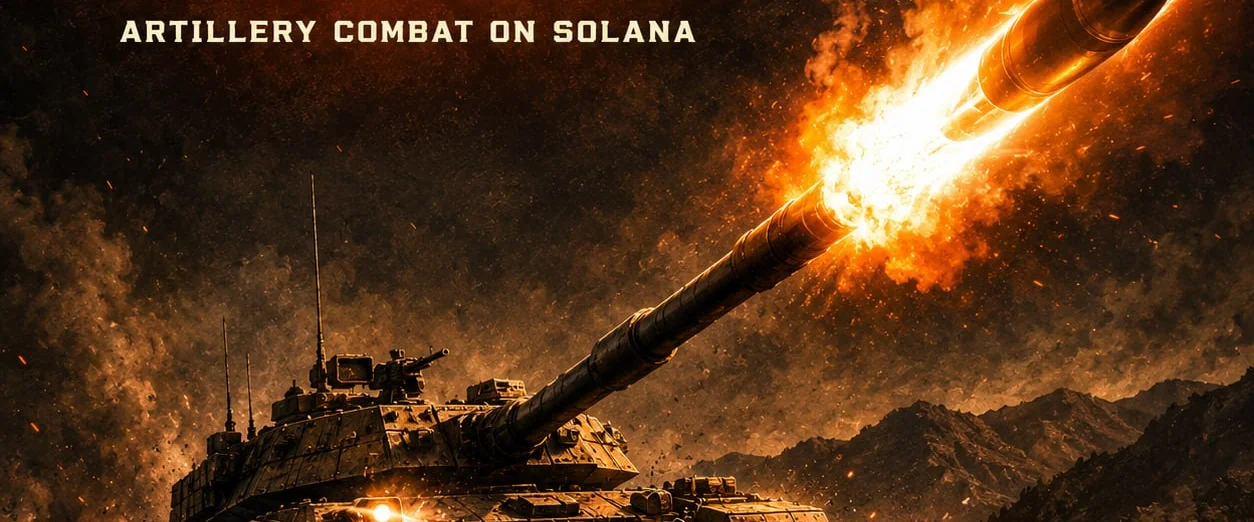
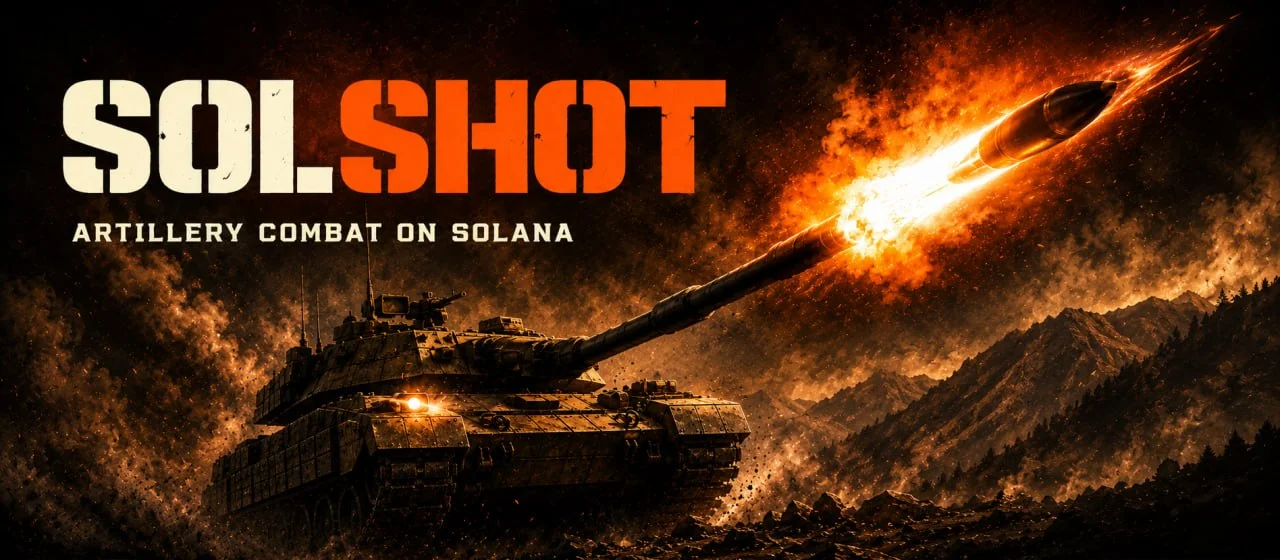
feat(art): wire SolShot 3-asset set (tile + hero + splash) as tester
First game to ship the full three-asset spec per the brief. Fish
shipped sources already cut to the right aspect ratios:

  - Solshot_New.jpg   1280x560 (16:7)  -> solshot.webp        (hero, 115 KB)
  - SolShot_Floor.jpg 1280x800 (16:10) -> solshot-tile.webp   (tile, 147 KB)
  - SolShot_TG.jpg    720x1280 (9:16)  -> solshot-splash.webp (splash, 141 KB)

Total ~400 KB across the 3 — slightly over the 270 KB ideal budget but
acceptable for V1 testing. Squeeze candidates: drop quality 85 to 80
or rescale to native target dimensions.

ArcadeGame interface extended with optional `tileSrc` + `splashSrc`.
Floor grid (TheFloor.tsx) prefers tileSrc when present, falls back
to heroSrc for games still on a single asset (basketball, free-kicks,
keepie-uppies). Featured Cabinet + Game Detail Marquee continue to
use the wide hero. Splash isn't wired into any surface yet — stored
ready for mobile launch / OG share / future trophy card.

diff --git a/src/data/games-fixtures.ts b/src/data/games-fixtures.ts
@@ -17,8 +17,16 @@ export interface ArcadeGame {
   stake: string;
   yield: number;
   hi: string;
-  /** Hero illustration (studio-provided art). Vite serves from /public. */
+  /** Wide hero illustration (16:7, ~2400×1050 target). Featured Cabinet
+   *  + Game Detail Marquee. Always required. */
   heroSrc: string;
+  /** Tile crop (16:10, ~1280×800 target). The Floor grid tiles. Falls
+   *  back to `heroSrc` with `object-fit: cover` when missing. */
+  tileSrc?: string;
+  /** Vertical splash (9:16, ~1080×1920 target). Mobile launch / TG
+   *  webview takeover / OG share / future trophy card. Stored ready;
+   *  not all surfaces consume it yet. */
+  splashSrc?: string;
   /** Where to bias the cropped focal area. Defaults to center. */
   heroFocus?: string;
 }
@@ -35,6 +43,8 @@ export const PORTAL_GAMES: ArcadeGame[] = [
     yield: 50,
     hi: '142,089',
     heroSrc: '/assets/games/hero/solshot.webp',
+    tileSrc: '/assets/games/hero/solshot-tile.webp',
+    splashSrc: '/assets/games/hero/solshot-splash.webp',
     heroFocus: 'center',
   },
   {

diff --git a/src/components/dashboard/TheFloor.tsx b/src/components/dashboard/TheFloor.tsx
@@ -98,9 +98,11 @@ function CabinetTile({ game }: { game: ArcadeGame }) {
           overflow: 'hidden',
         }}
       >
-        {/* studio hero art fills the screen area */}
+        {/* studio art fills the screen area — prefer tile crop when the
+            game has shipped one, fall back to the hero with object-fit
+            cover for games still on a single asset */}
         <img
-          src={game.heroSrc}
+          src={game.tileSrc ?? game.heroSrc}
           alt={`${game.name} cabinet art`}
           loading="lazy"
           style={{